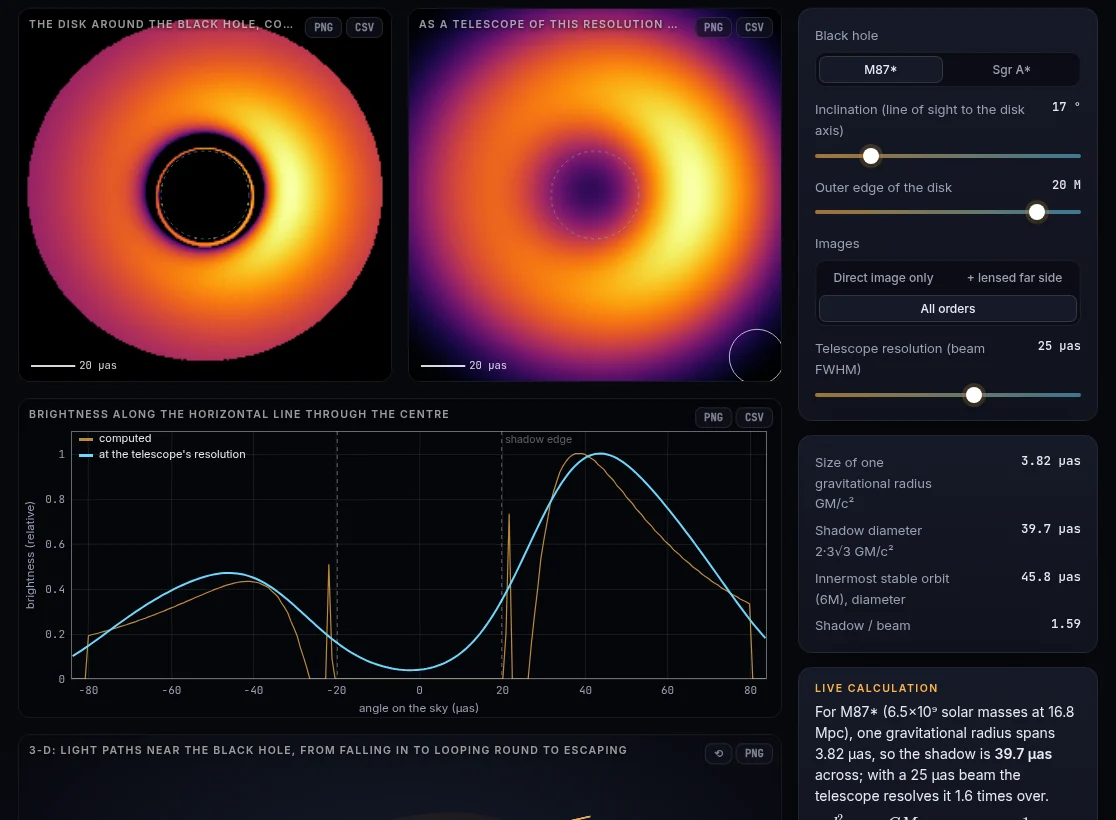
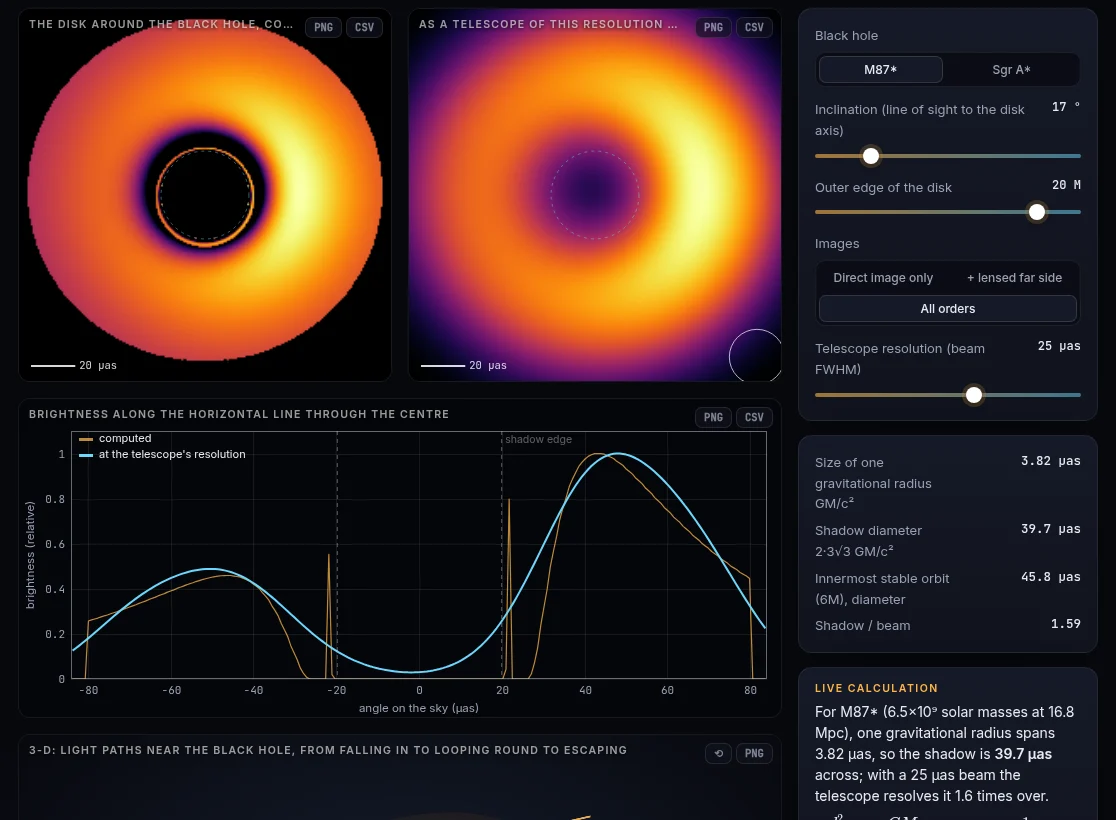
fix(blackhole): correct the Page–Thorne flux logarithm coefficient (#219)
The Schwarzschild Page–Thorne bracket integrates (t² − 6)/(t² − 3), whose
logarithmic term carries √3/2, not √3/3. The inner disk was too faint.
A test compares the bracket with a Simpson integral and checks its
quadratic onset at the ISCO; the README validation table lists it.

Closes #189

diff --git a/js/lib/blackhole.js b/js/lib/blackhole.js
@@ -46,13 +46,15 @@ export function orbitTable(bMax = 40) {
   return { bs: Float64Array.from(bs), orbits: bs.map((b) => orbit(b)) };
 }
 
-// Page–Thorne flux of a thin disk around a Schwarzschild black hole (Luminet 1979, eq. 15), in
-// arbitrary units; zero inside the innermost stable circular orbit r = 6.
+// Page–Thorne flux of a thin disk around a Schwarzschild black hole (Page & Thorne 1974; Luminet
+// 1979), in arbitrary units; zero inside the innermost stable circular orbit r = 6. With x = √r the
+// bracket is ∫ from √6 to x of (t² − 6)/(t² − 3) dt = x − √6 + (√3/2) ln[(x + √3)(√6 − √3)/((x − √3)(√6 + √3))],
+// so it vanishes quadratically at the inner edge (no torque there).
 export function diskFlux(r) {
   if (r <= R_ISCO) return 0;
   const s3 = Math.sqrt(3), s6 = Math.sqrt(6), sx = Math.sqrt(r);
   const log = Math.log(((sx + s3) * (s6 - s3)) / ((sx - s3) * (s6 + s3)));
-  return (1 / ((r - 3) * r ** 2.5)) * (sx - s6 + (s3 / 3) * log);
+  return (1 / ((r - 3) * r ** 2.5)) * (sx - s6 + (s3 / 2) * log);
 }
 
 // Image of the disk (inner edge 6, outer edge rOut) seen at inclination incl (rad, angle between

diff --git a/README.md b/README.md
@@ -1093,6 +1093,7 @@ The numerical core was checked against published or analytically known values. E
 | FDTD double slit against the Huygens–Fresnel integral | RMS difference below 0.12, central fringe within 3 cells | 2-D Huygens–Fresnel |
 | Black hole: capture threshold, weak-field deflection at b = 100M | 3√3 M; 0.04122 rad | 3√3 M; 4/b + 15π/4b² + 128/3b³ = 0.04122 |
 | Shadow of M87* (6.5 × 10⁹ M☉, 16.8 Mpc) | 39.7 µas | EHT ring 42 ± 3 µas (the ring lies just outside the shadow) |
+| Page–Thorne disk flux, radial bracket at r = 7, 10, 20, 60 M | equals ∫ (t² − 6)/(t² − 3) dt from √6 to √r to 10⁻⁹; vanishes quadratically at the ISCO | Page & Thorne 1974, Schwarzschild limit (log coefficient √3/2) |
 | Bench: traced prism deviation, N-SF11 at 60° incidence (450 / 550 / 650 nm) | 72.261° / 67.639° / 65.564° | i + arcsin(n sin(A − r₁)) − A, same to 10⁻⁶° |
 | Bench: ball lens paraxial focus (N-BK7, R = 0.6) | 0.8802 | nR/(2(n − 1)) = 0.8805 |
 

diff --git a/CHANGELOG.md b/CHANGELOG.md
@@ -18,6 +18,9 @@ The format follows [Keep a Changelog](https://keepachangelog.com/en/1.1.0/), and
 ### Fixed
 - Your camera: a camera granted after leaving the page, or whose playback failed, is now stopped at once instead of staying live; only one request runs at a time, and the page's cleanup cancels a request still waiting for permission (`cameraSession` in `js/lib/camera.js`, with tests for late permission, failed playback, repeated clicks, stop and restart; #190).
 
+### Fixed
+- Imaging a black hole: the Page–Thorne disk flux used √3/3 instead of √3/2 as the coefficient of its logarithmic term, which made the inner disk too faint; the radial bracket is now checked against a numerical integral of (t² − 6)/(t² − 3) and its quadratic onset at the ISCO (#189).
+
 ## [1.31.0] - 2026-10-30
 
 ### Added
